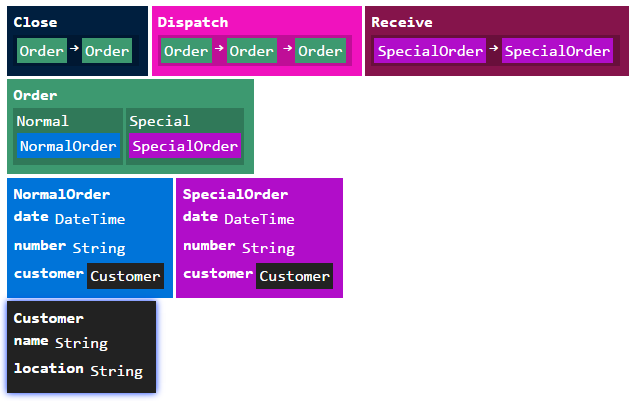
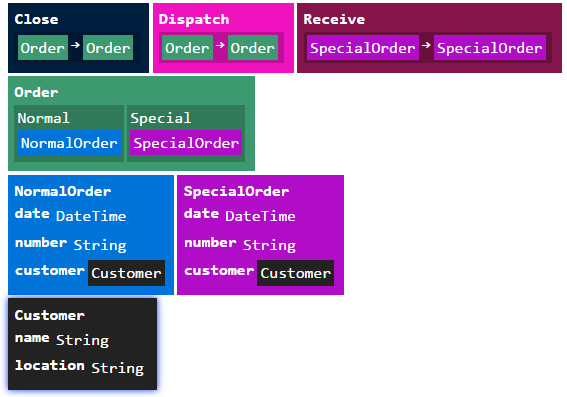
...

Changed region(s): [[0.0, 0.0, 1.0, 0.9975]]

diff --git a/README.md b/README.md
@@ -27,7 +27,7 @@ type Order =
   | Special of SpecialOrder
 
 type Close = Close of (Order -> Order)
-type Dispatch = Dispatch of ((Order -> Order) -> Order)
+type Dispatch = Dispatch of (Order -> Order)
 type Receive = Receive of (SpecialOrder -> SpecialOrder)
 ``` 
 
